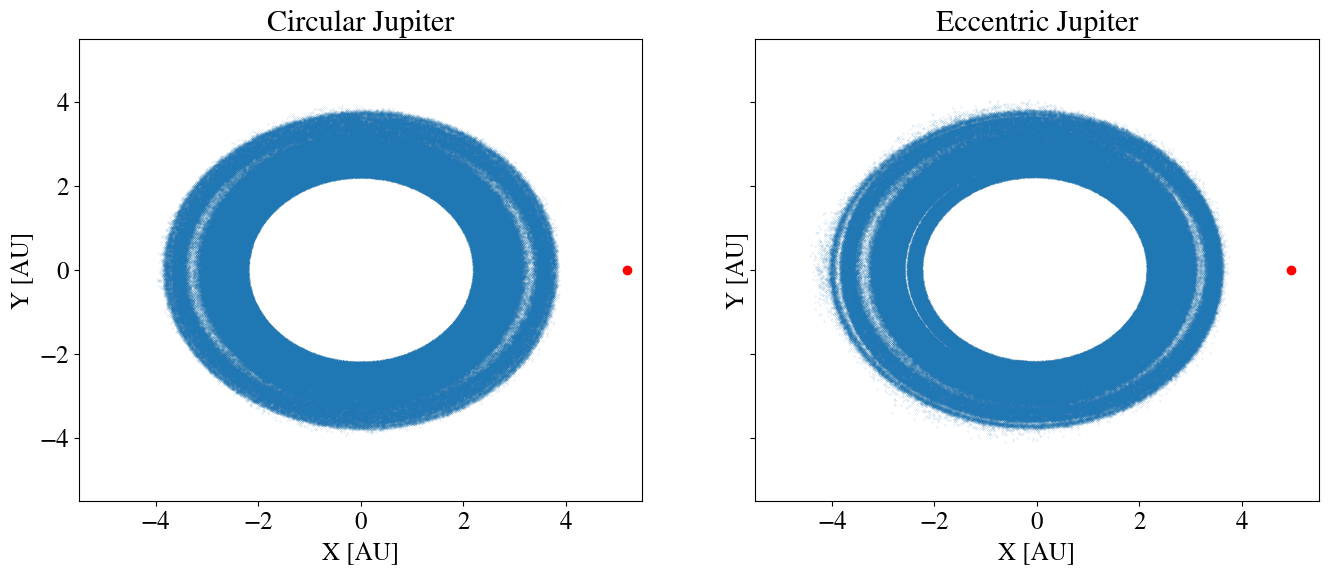
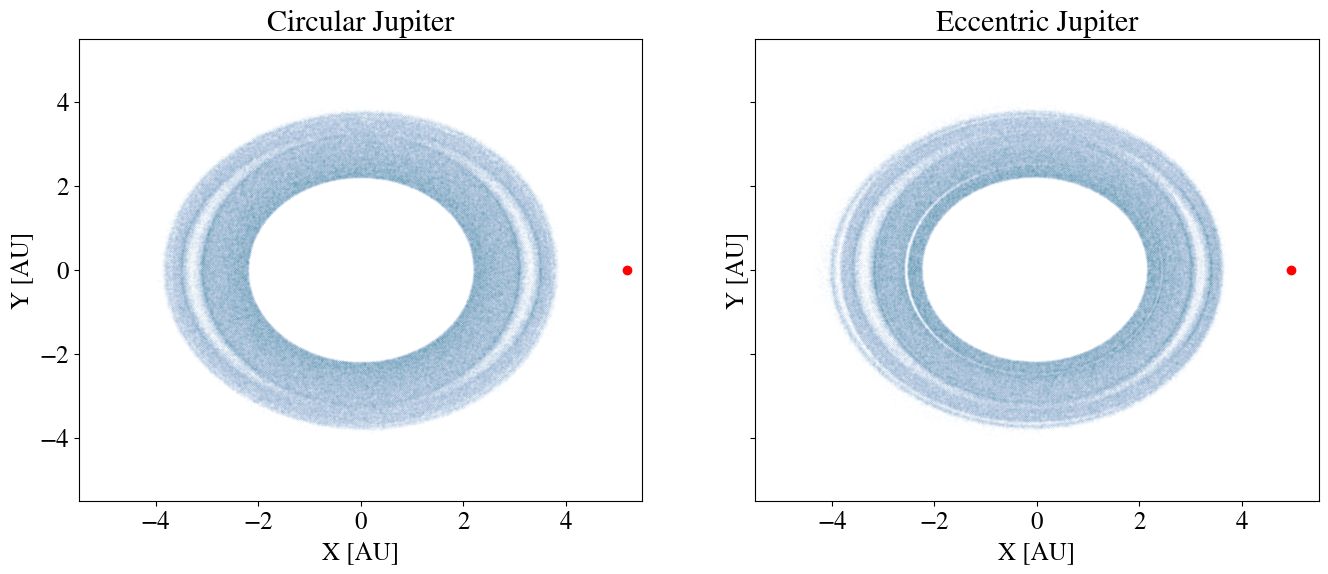
Add figure captions, add new figure showing change in collision rate with ejup and mjup

Changed region(s): [[0.6175, 0.1777, 0.9262, 0.77], [0.1235, 0.1777, 0.4322, 0.77]]

diff --git a/main.tex b/main.tex
@@ -28,13 +28,6 @@ tightly wound spiral wave is launched from this location.
 
 \section{Introduction} \label{sec:intro}
 
-%Things to change/do:
-%    Transient feature in EJ collision rate before 2000 years. Only want to look at collisions after this time. Mention this when discussing figure 4. Justify the cutoff (maybe something to do with precession in 3:1 MMR?)
-%    Safronov and Nbody collision rates. Not matching up well near resonance. The 'wings' from the resonances mess up calculation of velocity dispersion. Maybe do comparison
-%       no grav focusing?
-%    Get Aaron to make some dust emission makes from the Nbody collision histograms
-%    Can we scale these results to any size system? Get rid of units. How to justify planetesimal size?
-
 Recent observations of circumstellar disks by ALMA have revealed a rich variety of substructure in the millimeter wavelength
 contiunuum emission. Features such as gaps and asymmetries 
 \citep{2015ApJ...808L...3A, 2016Sci...353.1519P, PhysRevLett.117.251101, 2016ApJ...820L..40A, 2016Natur.535..258C} in the 
@@ -226,7 +219,9 @@ reducing the effectiveness of gravitational focusing, while minimizing the addit
 
 \begin{figure*}
     \includegraphics[width=\textwidth]{figures/xy.png}
-    \caption{Caption goes here.\label{fig:xy}}
+    \caption{The positions of remaining planetesimals at the end of the CJ (left) and EJ (right) simulations. Jupiter's position is
+    indicated by a red dot. Nonaxisymmetric features due to mean motion resonances are clearly visible in both cases. Higher
+    order resonances are visible in the EJ case.\label{fig:xy}}
 \end{figure*}
 
 \section{Results} \label{sec:results}
@@ -253,7 +248,11 @@ MMR spikes also grows because the strength of a MMR scales as $e^{q}$, where $q$
 \begin{figure}
     \begin{center}
     \includegraphics[width=0.4\columnwidth]{figures/ae.png}
-    \caption{Caption goes here.\label{fig:ae}}
+    \caption{The semimajor axis - eccentricity state of the remaining planetesimals are shown at the end of the CJ (top) and EJ (bottom) 
+    simulations. The vertical bars mark the nominal locations of prominent resonances. Planetesimals affected by resonance with Jupiter gain
+     eccentricity, and due to conservation of the Jacobi energy, reduce their semimajor axes. This produces the curved fingerlike structure 
+     extending off of the resonances. In the EJ case, some bodies in resonance take on eccentricities smaller than their initial forced values as 
+     they undergo libration.\label{fig:ae}}
     \end{center}
 \end{figure}
 
@@ -267,14 +266,19 @@ eccentricity of $e_{forced}$ at each resonance, which approximately shows the zo
 \begin{figure}
     \begin{center}
     \includegraphics[width=0.4\columnwidth]{figures/long_ph.png}
-    \caption{Caption goes here.\label{fig:long_ph}}
+    \caption{The semimajor axis and pericenter orientation of remaining planetesimals at the end of the EJ simulation. All bodies start with their 
+    pericenters closely aligned with Jupiter's ($\varpi = \pi$). Near the resonances, bodies undergo strong precession which randomizes their 
+    orbital orientations. Two-body interactions between the planetesimals in resonance and nearby non-resonant planetesimals drags their 
+    longitude of perihelia along with.\label{fig:long_ph}}
     \end{center}
 \end{figure}
 
 \begin{figure}
     \begin{center}
     \includegraphics[width=0.4\columnwidth]{figures/coll_hist_a.png}
-    \caption{Caption goes here.\label{fig:coll_hist_a}}
+    \caption{A kernel density estimate (KDE) of the collision rate as a function of semimajor axis in the CJ (top) and EJ (bottom) simulations. 
+    There are measureable changes in the collision rate near 2:1 and 3:1 MMRs, each of which produce qualitatively different changes in the 
+    collision rate. The vertical bars mark the nominal locations of prominent resonances.\label{fig:coll_hist_a}}
     \end{center}
 \end{figure}
 
@@ -311,6 +315,15 @@ MMR scales with $e$ \citep{1994PhyD...77..289M}. One would therefore expect the 
 collision rate in a more eccentric disk. Although viewing the collision rate as a function of semimajor axis demonstrates a clear connection 
 between the resonances and the collision rate, this does not immediately indicate where the dust generated by collisions will end up in the 
 disk. (Why is the feature around the 3:1 MMR so different than the 2:1?)
+
+\begin{figure*}
+    \includegraphics[width=\textwidth]{figures/coll_hist_r.png}
+    \caption{\textit{Top:} A KDE of the collision rate in the CJ (left) and EJ (right) simulations as a function of cylindrical distance from the central 
+    star. Vertical lines mark the nominal locations of the MMRs. Variations in the collision rate are visible near the MMRs, but are distinctly 
+    different than the feature that appeared in figure \ref{fig:coll_hist_a}. \textit{Middle:} The azimuthally-averaged surface density of remaining 
+    planetesimals. \textit{Bottom:} The cylindrical distance and eccentricities of remaining planetesimals. The cones extending upward from the 
+    resonance locations are due to the fact that eccentric planetesimals explore a wide range of physical space over the course of an orbit.\label{fig:coll_hist_r}}
+\end{figure*}
 
 \subsection{Where Does the Dust End Up?}
 
@@ -351,19 +364,18 @@ probability for planetesimals affected by resonance is smallest at aphelion. Thi
 to the resonances.
 
 Finally, the bottom row of figure \ref{fig:coll_hist_r} demonstrates the difficulty with calculating the collision rate from the position and velocity 
-distribution of particles. At a given distance from the central star, the distribution of velocities (using eccentricity as a proxy for typical encounter 
+distribution of particles. At a given distance from the central star, the distribution of velocities (using eccentricity as a proxy for encounter 
 velocity), is not unimodal. In addition, the wings extending off of the resonances in these plots show that planetesimals can interact and collide 
-with bodies far from the centers of the resonances. The bump seen in the collision rate in the EJ simulation around 2.7 AU is like a result of the 
-complicated interaction between planetesimals in the 3:1, 5:2 and 2:1 resonances.
+with bodies far from the centers of the resonances. The bump seen in the collision rate in the EJ simulation around 2.7 AU is like a result of interaction between planetesimals in the 3:1, 5:2 and 2:1 resonances.
 
 So far, we have shown that mean-motion resonances with a perturbing giant planet will produce measureable radial variations in the collision rates across a disk of planetesimals, which should give rise to variations in the dust profile. In addition, distinctly different features are produced if the giant planet is on an eccentric, rather than a circular orbit. In the next section, we would like to determine whether these features can be used to place any constraints on the mass and eccentricity of the planet.
 
-\begin{figure*}
-    \includegraphics[width=\textwidth]{figures/coll_hist_r.png}
-    \caption{Caption goes here.\label{fig:coll_hist_r}}
-\end{figure*}
-
 \section{Influence of Jupiter's Mass and Eccentricity on the Radial Dust Profile}
+
+\begin{figure*}
+    \includegraphics[width=0.4\textwidth]{figures/coll_hist_e_and_m.png}
+    \caption{Caption goes here.\label{fig:coll_hist_e_and_m}}
+\end{figure*}
 
 \section{Observability of Dust} \label{sec:dust}
 

diff --git a/makeFig.py b/makeFig.py
@@ -100,13 +100,13 @@ nbins = 30
 # Regenerate existing plots?
 clobber = True
 fmt = 'png'
-s = 0.005
+s = 0.0001
 
 # Collision log data
 
 # Circular Jupiter case
-mc_c = s0_c['mass'][0]
-coll_c_log = coll.CollisionLog(path + 'hkshiftfullJupCirc/collisions', mc_c)
+mc = s0_c['mass'][0]
+coll_c_log = coll.CollisionLog(path + 'hkshiftfullJupCirc/collisions', mc)
 coll_c = coll_c_log.coll
 # The v2y output in the collision log is messed up. Fortunately, we can recover it from
 # v1y and vNewy
@@ -115,11 +115,41 @@ coll_c = coll_c[np.logical_and(coll_c['time']/(2*np.pi) <= t_max, coll_c['time']
 
 # Eccentric Jupiter case
 mc_e = s0_e['mass'][0]
-coll_e_log = coll.CollisionLog(path + 'hkshiftfull/collisions', mc_e)
+coll_e_log = coll.CollisionLog(path + 'hkshiftfull/collisions', mc)
 coll_e = coll_e_log.coll
 # Fix the v2y output again
 coll_e['v2y'] = (coll_e['m1']*coll_e['v1y'] - (coll_e['m1'] + coll_e['m2'])*coll_e['vNewy'])/coll_e['m2']
 coll_e = coll_e[np.logical_and(coll_e['time']/(2*np.pi) <= t_max, coll_e['time']/(2*np.pi) >= t_skip)]
+
+# Low eccentricity Jupiter
+mc_e = s0_e['mass'][0]
+coll_e1_log = coll.CollisionLog(path + 'e1/collisions', mc)
+coll_e1 = coll_e1_log.coll
+# Fix the v2y output again
+coll_e1['v2y'] = (coll_e1['m1']*coll_e1['v1y'] - (coll_e1['m1'] + coll_e1['m2'])*coll_e1['vNewy'])/coll_e1['m2']
+
+# High eccentricity Jupiter
+mc_e = s0_e['mass'][0]
+coll_e2_log = coll.CollisionLog(path + 'e2/collisions', mc)
+coll_e2 = coll_e2_log.coll
+# Fix the v2y output again
+coll_e2['v2y'] = (coll_e2['m1']*coll_e2['v1y'] - (coll_e2['m1'] + coll_e2['m2'])*coll_e2['vNewy'])/coll_e2['m2']
+coll_e2 = coll_e2
+
+# Low mass Jupiter
+mc_e = s0_e['mass'][0]
+coll_m1_log = coll.CollisionLog(path + 'm1/collisions', mc)
+coll_m1 = coll_m1_log.coll
+# Fix the v2y output again
+coll_m1['v2y'] = (coll_m1['m1']*coll_m1['v1y'] - (coll_m1['m1'] + coll_m1['m2'])*coll_m1['vNewy'])/coll_m1['m2']
+
+# High mass Jupiter
+mc_e = s0_e['mass'][0]
+coll_m2_log = coll.CollisionLog(path + 'm2/collisions', mc)
+coll_m2 = coll_m2_log.coll
+# Fix the v2y output again
+coll_m2['v2y'] = (coll_e2['m1']*coll_m2['v1y'] - (coll_m2['m1'] + coll_m2['m2'])*coll_m2['vNewy'])/coll_m2['m2']
+coll_m2 = coll_m2
 
 # Positions of particles in polar coordinates
 s_c, s_e = pb.load(s_c_files[-1]), pb.load(s_e_files[-1])
@@ -280,59 +310,44 @@ def make_coll_hist_r():
 	plt.tight_layout(h_pad=0)
 	plt.savefig(file_str, format=fmt, bbox_inches='tight')
 
-def make_m_hist():
-	file_str = 'figures/m_hist.' + fmt
+def make_coll_hist_e_and_m():
+	file_str = 'figures/coll_hist_e_and_m.' + fmt
 	if not clobber and os.path.exists(file_str):
 		return
 
-	a11, a12 = 3.2, 3.34
-	a21, a22 = 2.7, 2.8
+	fig, (ax1, ax2) = plt.subplots(figsize=(8,8), nrows=2, ncols=1, sharex=True, sharey=True)
 
-	def ang_diff(ang1, ang2):
-		return ((ang1 - ang2) + np.pi)%(2*np.pi) - np.pi
+	coll_dist_e1 = np.sqrt(coll_e1['x1x']**2 + coll_e1['x1y']**2)
+	coll_bins_r_e1, coll_pdf_r_e1 = kde(coll_dist_e1)
+	coll_dist_e = np.sqrt(coll_e['x1x']**2 + coll_e['x1y']**2)
+	coll_bins_r_e, coll_pdf_r_e = kde(coll_dist_e)
+	coll_dist_e2 = np.sqrt(coll_e2['x1x']**2 + coll_e2['x1y']**2)
+	coll_bins_r_e2, coll_pdf_r_e2 = kde(coll_dist_e2)
+	coll_dist_m1 = np.sqrt(coll_m1['x1x']**2 + coll_m1['x1y']**2)
+	coll_bins_r_m1, coll_pdf_r_m1 = kde(coll_dist_m1)
+	coll_dist_m2 = np.sqrt(coll_m2['x1x']**2 + coll_m2['x1y']**2)
+	coll_bins_r_m2, coll_pdf_r_m2 = kde(coll_dist_m2)
 
-	fig, ax = plt.subplots(2, 2, figsize=(16,12))
+	ax1.plot(coll_bins_r_e1, coll_pdf_r_e1, label=r'e$_{pl}$ = 1/2 e$_{jup}$', linestyle='steps-mid')
+	ax1.plot(coll_bins_r_e, coll_pdf_r_e, label=r'e$_{pl}$ = e$_{jup}$', linestyle='steps-mid')
+	ax1.plot(coll_bins_r_e2, coll_pdf_r_e2, label=r'e$_{pl}$ = 2 e$_{jup}$', linestyle='steps-mid')
 
-	mask = np.logical_and(a_c_e1 > a11, a_c_e1 < a12)
-	hist, bins = np.histogram(M_c_e1[mask], bins=np.linspace(0, 2*np.pi, num=20))
-	bins = 0.5*(bins[1:] + bins[:-1])
-	ax[0,0].plot(bins, hist, linestyle='steps-mid')
-	ax[0,0].set_xlabel('Mean Anomaly')
-	ax[0,0].set_ylabel('Number of Collisions')
-	ax[0,0].set_ylim(0, np.max(hist)*1.1)
-	ax[0,0].set_title(str(a11) + ' < a < ' + str(a12) + ' (' + str(len(M_c_e1[mask])) + ' coll)')
+	ax2.plot(coll_bins_r_m1, coll_pdf_r_m1, label=r'm$_{pl}$ = 1/2 m$_{jup}$', linestyle='steps-mid')
+	ax2.plot(coll_bins_r_e, coll_pdf_r_e, label=r'm$_{pl}$ = m$_{jup}$', linestyle='steps-mid')
+	ax2.plot(coll_bins_r_m2, coll_pdf_r_m2, label=r'm$_{pl}$ = 2 m$_{jup}$', linestyle='steps-mid')
 
-	mask = np.logical_and(a_c_e1 > a21, a_c_e1 < a22)
-	hist, bins = np.histogram(M_c_e1[mask], bins=np.linspace(0, 2*np.pi, num=20))
-	bins = 0.5*(bins[1:] + bins[:-1])
-	ax[1,0].plot(bins, hist, linestyle='steps-mid')
-	ax[1,0].set_xlabel('Mean Anomaly')
-	ax[1,0].set_ylabel('Number of Collisions')
-	ax[1,0].set_ylim(0, np.max(hist)*1.1)
-	ax[1,0].set_title(str(a21) + ' < a < ' + str(a22) + ' (' + str(len(M_c_e1[mask])) + ' coll)')
+	ax1.set_ylabel('dn/dr')
+	ax2.set_xlabel('Heliocentric Distance [AU]')
+	ax2.set_ylabel('dn/dr')
 
-	mask = np.logical_and(a_c_c1 > a11, a_c_c1 < a12)
-	hist, bins = np.histogram(M_c_c1[mask], bins=np.linspace(0, 2*np.pi, num=20))
-	bins = 0.5*(bins[1:] + bins[:-1])
-	ax[0,1].plot(bins, hist, linestyle='steps-mid')
-	ax[0,1].set_xlabel('Mean Anomaly')
-	ax[0,1].set_ylabel('Number of Collisions')
-	ax[0,1].set_ylim(0, np.max(hist)*1.1)
-	ax[0,1].set_title(str(a11) + ' < a < ' + str(a12) + ' (' + str(len(M_c_c1[mask])) + ' coll)')
+	ax1.legend()
+	ax2.legend()
 
-	mask = np.logical_and(a_c_c1 > a21, a_c_c1 < a22)
-	hist, bins = np.histogram(M_c_c1[mask], bins=np.linspace(0, 2*np.pi, num=20))
-	bins = 0.5*(bins[1:] + bins[:-1])
-	ax[1,1].plot(bins, hist, linestyle='steps-mid')
-	ax[1,1].set_xlabel('Mean Anomaly')
-	ax[1,1].set_ylabel('Number of Collisions')
-	ax[1,1].set_ylim(0, np.max(hist)*1.1)
-	ax[1,1].set_title(str(a21) + ' < a < ' + str(a22) + ' (' + str(len(M_c_c1[mask])) + ' coll)')
 	plt.savefig(file_str, format=fmt, bbox_inches='tight')
-
 
 make_xy()
 make_ae()
 make_long_ph()
 make_coll_hist_a()
 make_coll_hist_r()
+make_coll_hist_e_and_m()
